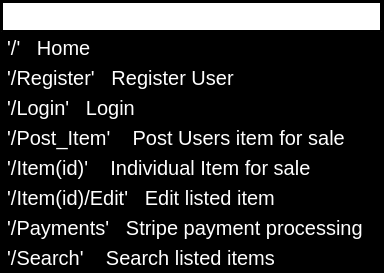
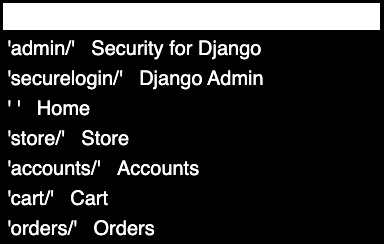
update

diff --git a/p4ecommerce/urls.py b/p4ecommerce/urls.py
@@ -20,13 +20,11 @@ from django.conf.urls.static import static
 from django.conf import settings
 
 urlpatterns = [
-    path('admin/', include('admin_honeypot.urls', namespace='admin_honeypot')),
     path('securelogin/', admin.site.urls),
+    path('admin/', include('admin_honeypot.urls', namespace='admin_honeypot')),
     path('', views.home, name='home'),
     path('store/', include('store.urls')),
-    path('cart/', include('carts.urls')),
     path('accounts/', include('accounts.urls')),
-
-    # ORDERS
+    path('cart/', include('carts.urls')),
     path('orders/', include('orders.urls')),
 ] + static(settings.MEDIA_URL, document_root=settings.MEDIA_ROOT)
